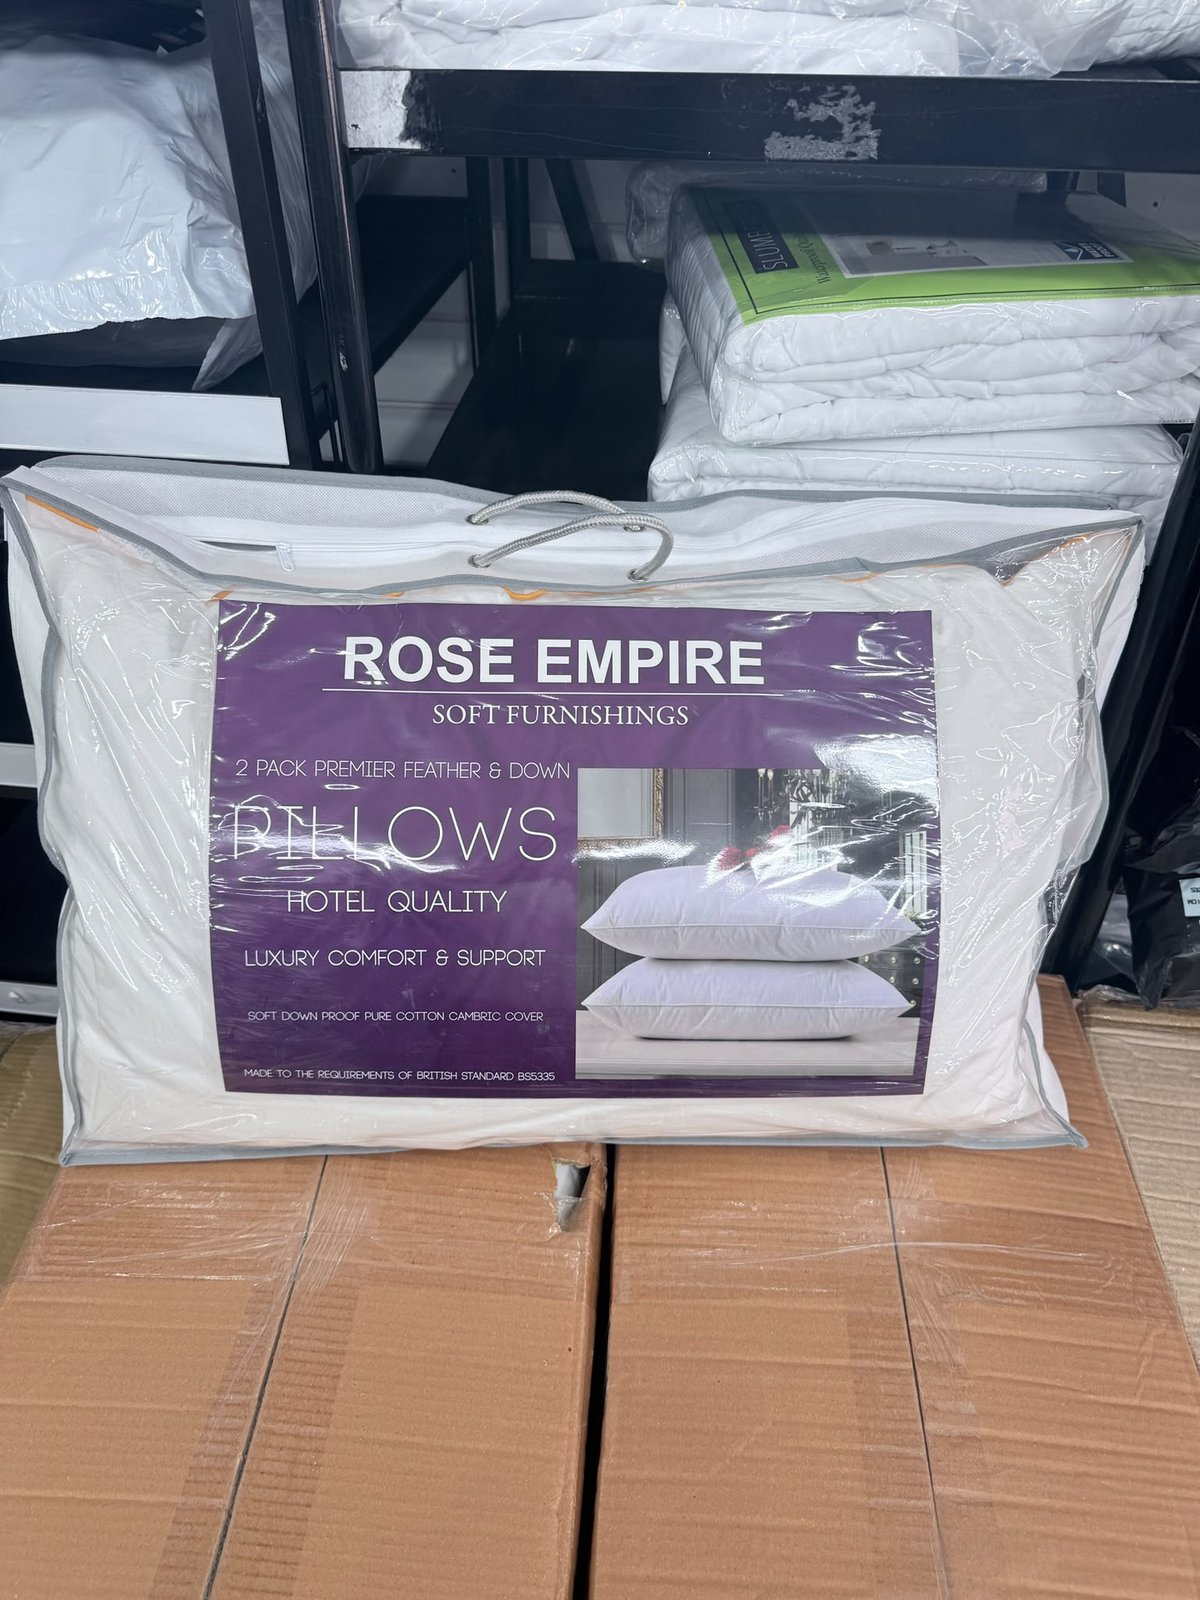
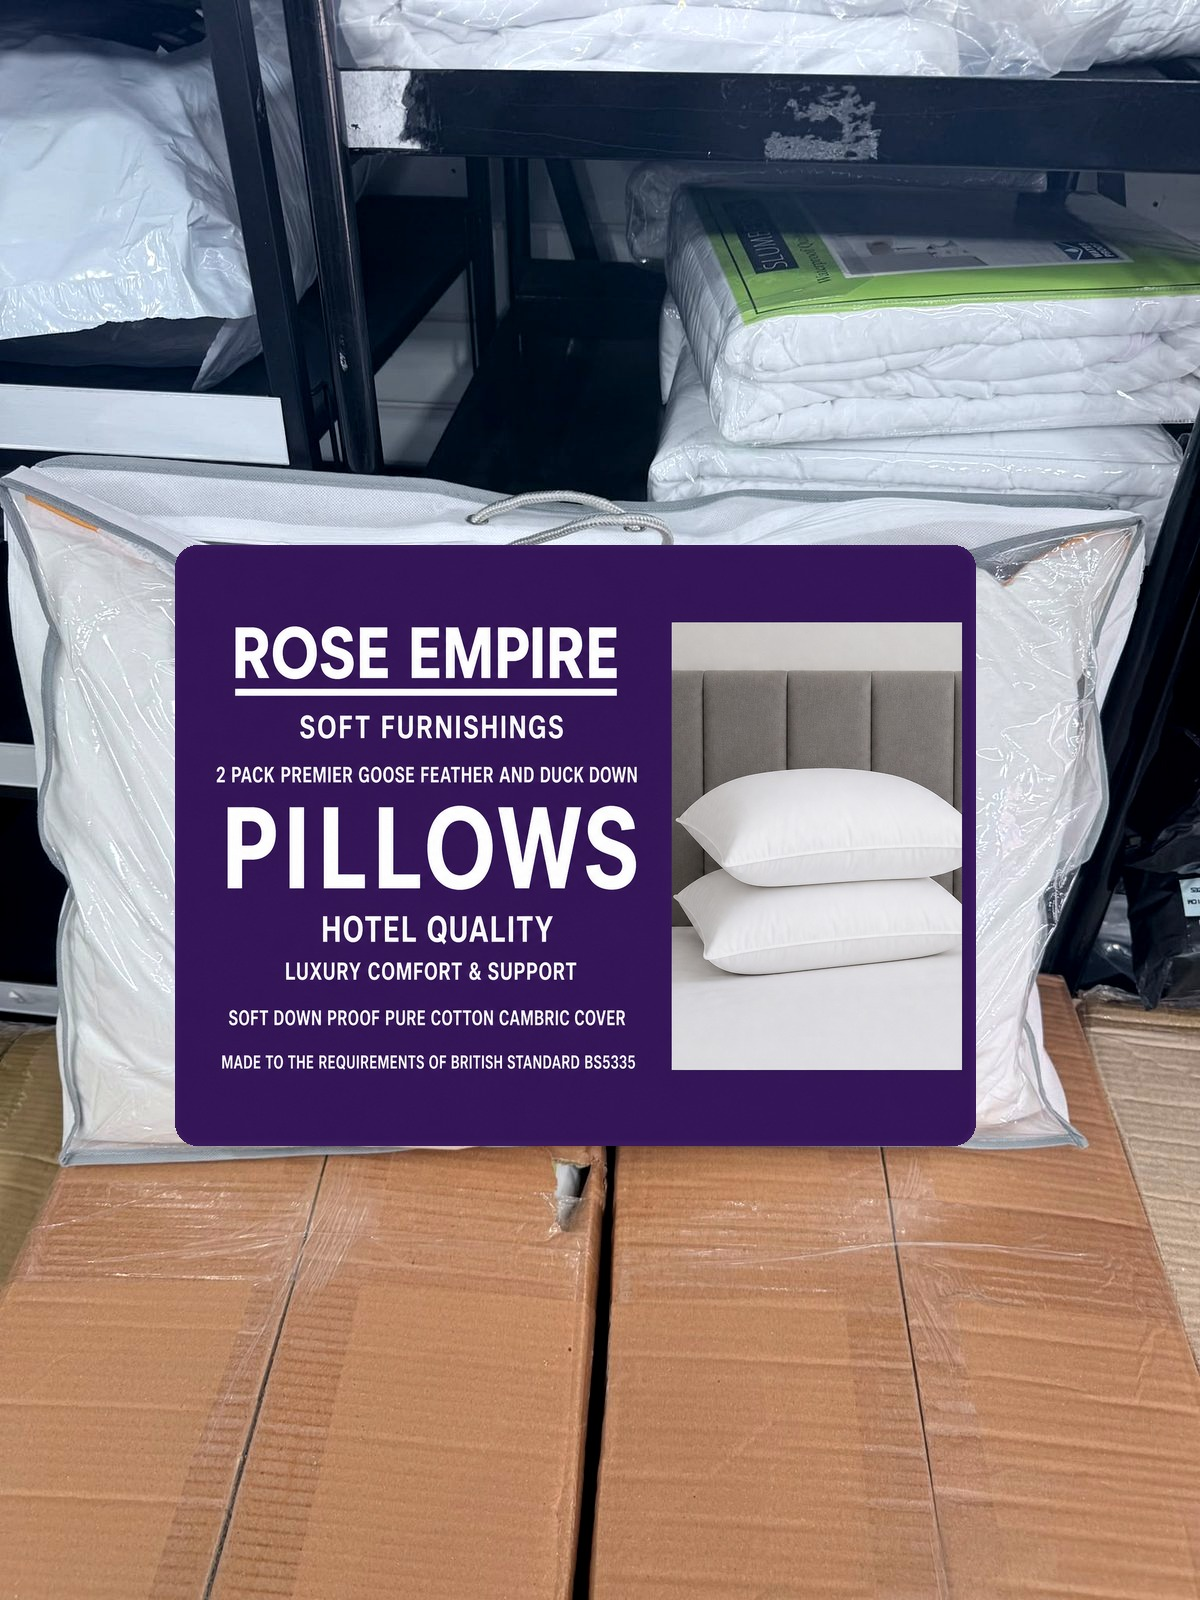
Enhance pillows packed for trade photo so the label is clear without glare

Changed region(s): [[0.1233, 0.3125, 0.8325, 0.7188]]

diff --git a/index.html b/index.html
@@ -800,7 +800,7 @@
                         <figcaption>Pallet ready to ship</figcaption>
                     </figure>
                     <figure class="warehouse-proof-shot">
-                        <img src="assets/warehouse/pillows-pack-warehouse.jpg?v=20260809b" alt="Rose Empire goose feather and duck down pillows packed and ready in warehouse" loading="lazy" width="600" height="800" decoding="async">
+                        <img src="assets/warehouse/pillows-pack-warehouse.jpg?v=20260814p" alt="Rose Empire goose feather and duck down pillows packed and ready in warehouse" loading="lazy" width="600" height="800" decoding="async">
                         <figcaption>Pillows packed for trade</figcaption>
                     </figure>
                 </div>
